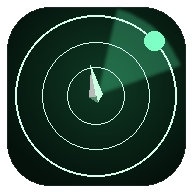
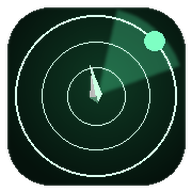
Refactor by Fable5
Ohne neue Funktionalität

diff --git a/index.html b/index.html
@@ -289,9 +289,6 @@
   /* ---------- Nav ---------- */
   #nav{align-items:center;justify-content:flex-start;padding:calc(var(--safe-t) + 22px) 22px 0;overflow-y:auto;-webkit-overflow-scrolling:touch;}
   .nav-top{width:100%;text-align:center;padding-top:8px;}
-  .dest-name{font-size:16px;font-weight:700;margin-top:6px;line-height:1.35;
-    max-width:90%;margin-left:auto;margin-right:auto;
-    display:-webkit-box;-webkit-line-clamp:2;-webkit-box-orient:vertical;overflow:hidden;}
 
   .compass{
     position:relative;flex:0 0 auto;width:100%;min-height:min(72vw,330px);
@@ -311,20 +308,12 @@
   .readout{width:100%;text-align:center;}
   .distance{font-size:50px;font-weight:700;letter-spacing:-.01em;color:var(--accent);line-height:1;}
   .distance .unit{font-size:20px;color:var(--muted);margin-left:6px;font-weight:700;}
-  .status-inline{display:inline-flex;align-items:center;justify-content:center;gap:8px;margin-top:6px;color:var(--muted);font-size:10.5px;letter-spacing:.14em;text-transform:uppercase;}
+  .status-inline{display:inline-flex;align-items:center;justify-content:center;gap:8px;margin:2px auto 0;color:var(--muted);font-size:10.5px;letter-spacing:.14em;text-transform:uppercase;}
   .dot{width:6px;height:6px;border-radius:50%;background:var(--muted);flex:0 0 auto;}
   .dot.gps{background:var(--gps);}
   .dot.compass{background:var(--accent);}
   .dot.none{background:var(--danger);}
-
-  .alert{
-    display:inline-flex;align-items:center;gap:7px;margin-top:10px;
-    background:var(--surface);border:1px solid var(--warn);
-    border-radius:6px;padding:6px 12px;font-size:11.5px;color:var(--warn);
-    letter-spacing:.03em;max-width:280px;
-  }
-  .alert.hide{display:none;}
-  .alert .dot{background:var(--warn);}
+  #statusDot{width:8px;height:8px;flex:0 0 8px;}
   .crossing-panel{display:none;margin:12px auto 0;max-width:320px;background:var(--surface);border:1px solid var(--hairline);border-radius:10px;padding:10px 10px 8px;}
   .crossing-panel.show{display:block;}
   .crossing-head{display:flex;align-items:center;justify-content:space-between;gap:8px;margin-bottom:8px;}
@@ -335,11 +324,6 @@
   .crossing-name{font-size:13px;font-weight:700;line-height:1.35;}
   .crossing-sub{font-size:11.5px;color:var(--muted);margin-top:3px;line-height:1.35;font-family:-apple-system,BlinkMacSystemFont,system-ui,sans-serif;}
   .crossing-dist{font-size:11px;color:var(--accent);letter-spacing:.06em;white-space:nowrap;padding-top:2px;}
-  .route-chip{display:none;align-items:center;justify-content:center;gap:7px;margin-top:10px;font-size:11px;color:var(--muted);letter-spacing:.06em;text-transform:uppercase;}
-  .route-chip.show{display:inline-flex;}
-  .crossing-badge{display:inline-flex;align-items:center;gap:6px;margin-top:8px;padding:6px 10px;border-radius:999px;border:1px solid var(--hairline);font-size:11px;letter-spacing:.06em;text-transform:uppercase;color:var(--muted);}
-  .crossing-badge .dot{width:6px;height:6px;border-radius:50%;background:var(--accent);}
-  .crossing-badge.foot-only .dot{background:var(--warn);}
   .crossing-sub strong{font-weight:700;color:var(--fg);font-family:ui-monospace,SFMono-Regular,Menlo,Monaco,Consolas,monospace;}
 
   .hint{color:var(--muted);font-size:12.5px;line-height:1.5;margin-top:14px;
@@ -361,7 +345,7 @@
 
     .barrier-info-btn{width:100%;display:flex;align-items:center;gap:10px;justify-content:center;
     min-height:48px;padding:12px 14px;border-radius:16px;border:1px solid var(--hairline);
-    background:color-mix(in srgb, var(--surface) 92%, transparent);color:var(--warning);
+    background:color-mix(in srgb, var(--surface) 92%, transparent);color:var(--warn);
     font-size:11px;letter-spacing:.12em;text-transform:uppercase;}
   .barrier-info-btn .dot{width:10px;height:10px;border-radius:50%;background:currentColor;display:inline-block;flex:none;}
   .barrier-info-btn.hide{display:none;}
@@ -386,53 +370,12 @@
   .target-pill-final{color:#4DA3FF;border-color:rgba(77,163,255,.26);}
   .target-pill-intermediate{color:var(--accent);border-color:color-mix(in srgb, var(--accent) 35%, var(--hairline));}
   .target-name{font-size:11px;letter-spacing:.04em;color:var(--muted);}
-  #routeChip{display:none !important;}
   .crossing-panel.compact #crossingList{display:none;}
   .crossing-head-actions{display:flex;align-items:center;gap:8px;}
   #crossingSummary{flex:1 1 auto;}
   #toggleCrossings{min-width:88px;}
   #finalLabel{display:none;}
-  .crossing-badge{margin-top:0;}
 
-
-  .status-inline{
-    display:inline-flex !important;
-    align-items:center !important;
-    justify-content:center !important;
-    gap:8px !important;
-    width:auto !important;
-    height:auto !important;
-    min-height:0 !important;
-    padding:0 !important;
-    margin:2px auto 0 !important;
-    border:0 !important;
-    border-radius:0 !important;
-    background:none !important;
-    box-shadow:none !important;
-    color:var(--muted) !important;
-    font-size:10.5px !important;
-    letter-spacing:.14em !important;
-    text-transform:uppercase !important;
-  }
-  .status-inline::before,.status-inline::after{display:none !important;content:none !important;}
-  #statusDot{
-    width:8px !important;
-    height:8px !important;
-    min-width:8px !important;
-    min-height:8px !important;
-    border-radius:50% !important;
-    display:inline-block !important;
-    flex:0 0 8px !important;
-    transform:none !important;
-    box-shadow:none !important;
-  }
-  #statusText{
-    display:inline !important;
-    font-size:10.5px !important;
-    line-height:1.1 !important;
-    letter-spacing:.14em !important;
-    text-transform:uppercase !important;
-  }
   .intermediate-actions{display:flex;gap:10px;justify-content:center;flex-wrap:wrap;}
   .intermediate-actions.hide{display:none;}
   .intermediate-actions .btn-ghost{min-height:42px;padding:0 14px;}
@@ -645,7 +588,7 @@
 <script>
 "use strict";
 
-const APP_VERSION = '2026.07.07.16';
+const APP_VERSION = '2026.07.08.1';
 
 /* ---------------- Geo-Mathe ---------------- */
 const R = 6371000; // m
@@ -788,6 +731,8 @@ out geom tags;`;
       candidates.push({ lat, lon, type, barrierType, name, detour, score: detour + dLine * 0.8 + a * 0.05 + (accessMode === 'foot_only' ? 120 : 0), accessMode });
     };
 
+    const pendingBridges = [];
+
     for(const element of (data.elements || [])){
       const tags = element.tags || {};
 
@@ -803,11 +748,9 @@ out geom tags;`;
         if(tags.bridge === 'yes' || tags.man_made === 'bridge' || tags.tunnel === 'yes'){
           bridgeWays++;
           const mid = pts[Math.floor(pts.length / 2)];
-          let barrierType = 'water';
-          if(hitMotorway) barrierType = 'motorway';
-          else if(hitRail) barrierType = 'rail';
-          else if(hitWater) barrierType = 'water';
-          pushCandidate(mid.lat, mid.lon, tags.tunnel === 'yes' ? 'tunnel' : 'bridge', barrierType, tags.name || '', tags);
+          // barrierType wird erst NACH dem kompletten Scan zugewiesen —
+          // die hit*-Flags sind hier evtl. noch unvollständig (Overpass-Reihenfolge).
+          pendingBridges.push({ mid, type: tags.tunnel === 'yes' ? 'tunnel' : 'bridge', name: tags.name || '', tags });
         }
       }
 
@@ -825,6 +768,12 @@ out geom tags;`;
         levelCrossings++;
         pushCandidate(element.lat, element.lon, 'level_crossing', 'rail', tags.name || '', tags);
       }
+    }
+
+    // Jetzt sind alle hit*-Flags final — Brücken-/Tunnel-Kandidaten labeln und einreihen.
+    const bridgeBarrierType = hitMotorway ? 'motorway' : (hitRail ? 'rail' : 'water');
+    for(const b of pendingBridges){
+      pushCandidate(b.mid.lat, b.mid.lon, b.type, bridgeBarrierType, b.name, b.tags);
     }
 
     const unique = new Map();
@@ -862,6 +811,15 @@ function updateIntermediateActions(dist){
   const show = !!(state.intermediateDest && Number.isFinite(dist) && dist <= 50);
   box.classList.toggle('hide', !show);
 }
+/* Hinweistext mit optionaler Haltezeit — der Frame-Loop überschreibt
+   navHint sonst in jedem Frame und Meldungen wären nie sichtbar. */
+function setHint(text, holdMs = 0){
+  el('navHint').textContent = text;
+  state.hintHoldUntil = holdMs > 0 ? Date.now() + holdMs : 0;
+}
+function hintLocked(){
+  return Date.now() < state.hintHoldUntil;
+}
 function activateFinalDestination(message=''){
   if(!state.finalDest) return;
   state.intermediateDest = null;
@@ -871,7 +829,7 @@ function activateFinalDestination(message=''){
   state.dest = { ...state.finalDest };
   renderNavChrome();
   updateIntermediateActions(null);
-  if(message) el('navHint').textContent = message;
+  if(message) setHint(message, 4000);
 }
 
 function setRouteChip(){
@@ -912,14 +870,14 @@ function renderCrossingSuggestions(){
     const btn = document.createElement('button');
     btn.className = 'crossing-option' + (state.selectedCrossingKey === crossingKey(item) ? ' active' : '');
     const accessText = item.accessMode === 'foot_only' ? '<strong>nur schiebend / zu Fuß</strong>' : 'mit Rad befahrbar';
-    btn.innerHTML = `<span><div class="crossing-name">${item.name || crossingTypeLabel(item.type)}</div><div class="crossing-sub">${crossingTypeLabel(item.type)} · ${item.barrierType === 'rail' ? 'bei Bahnlinie' : (item.barrierType === 'motorway' ? 'bei Autobahn' : 'bei Gewässer')} · ${accessText}</div></span><span class="crossing-dist">+${formatMetersShort(item.detour)}</span>`;
+    btn.innerHTML = `<span><div class="crossing-name">${escHtml(item.name || crossingTypeLabel(item.type))}</div><div class="crossing-sub">${crossingTypeLabel(item.type)} · ${item.barrierType === 'rail' ? 'bei Bahnlinie' : (item.barrierType === 'motorway' ? 'bei Autobahn' : 'bei Gewässer')} · ${accessText}</div></span><span class="crossing-dist">+${formatMetersShort(item.detour)}</span>`;
     btn.addEventListener('click', () => {
       state.intermediateDest = { lat:item.lat, lon:item.lon, name:item.name || crossingTypeLabel(item.type) };
       state.selectedCrossingKey = crossingKey(item);
       state.dest = { ...state.intermediateDest };
       state.crossingLegendMode = item.accessMode || 'rideable';
       state.crossingExpanded = false;
-      el('navHint').textContent = '';
+      setHint('');
       setRouteChip();
       renderCrossingSuggestions();
       updateIntermediateActions(Number.POSITIVE_INFINITY);
@@ -947,7 +905,7 @@ function syncBarrierUI(){
   const hasInfo = !!(state.barrierSummary || state.barrierDebugText);
   if(btn){
     btn.classList.toggle('hide', !hasInfo);
-    btn.style.color = state.barrierIsError ? 'var(--warning)' : 'var(--accent)';
+    btn.style.color = state.barrierIsError ? 'var(--warn)' : 'var(--accent)';
   }
   if(btnText) btnText.textContent = state.barrierSummary || 'Barrieren-Check';
   if(summary) summary.textContent = state.barrierSummary || 'Noch keine Infos vorhanden.';
@@ -1036,6 +994,7 @@ const state = {
   barrierSummary: '',
   barrierDebugText: '',
   barrierIsError: false,
+  hintHoldUntil: 0,
 };
 
 const GPS_SWITCH_ON  = 1.2;
@@ -1235,29 +1194,8 @@ function startNav(dest){
   state.compassHeading = null;
   state.compassAccuracy = null;
   state.compassTs = 0;
-  state.smoothHeading = null;
-  state.displayAngle = 0;
-  state.gpsCourse = null;
-  state.gpsCourseSpeed = null;
-  state.gpsCourseDistance = 0;
-  state.gpsCourseTs = 0;
-  state.positionHistory = [];
-  state.compassHistory = [];
-  state.compassHeading = null;
-  state.compassAccuracy = null;
-  state.compassTs = 0;
-  state.smoothHeading = null;
-  state.displayAngle = 0;
-  state.gpsCourse = null;
-  state.gpsCourseSpeed = null;
-  state.gpsCourseDistance = 0;
-  state.gpsCourseTs = 0;
-  state.positionHistory = [];
-  state.compassHistory = [];
-  state.compassHeading = null;
-  state.compassAccuracy = null;
-  state.compassTs = 0;
   state.barrierSummary='';
+  state.hintHoldUntil = 0;
   updateIntermediateActions(null);
   hideBarrierError();
   setBarrierDebug('');
@@ -1632,6 +1570,9 @@ function frame(){
     updateIntermediateActions(state.intermediateDest ? dist : null);
     if(state.intermediateDest && dist <= 35){
       activateFinalDestination('Zwischenziel erreicht · weiter zum Endziel.');
+      // Nur diesen Frame überspringen (dist/brg beziehen sich noch aufs alte Ziel) —
+      // der Loop muss zwingend weiterlaufen.
+      requestAnimationFrame(frame);
       return;
     }
     if(!state.barrierChecked){
@@ -1707,19 +1648,9 @@ function frame(){
           el('finalMarkerHalo').setAttribute('cy', p2.y.toFixed(1));
           el('finalMarkerDot').setAttribute('cx', p2.x.toFixed(1));
           el('finalMarkerDot').setAttribute('cy', p2.y.toFixed(1));
-          const finalText = el('finalLabelText');
-          const finalRect = el('finalLabelRect');
-          finalText.textContent = formatMetersShort(finalDist);
-          const finalW = Math.max(34, Math.ceil(finalText.getComputedTextLength()) + 12);
-          const anchorLeft = p2.x > 132;
-          const lx = anchorLeft ? (p2.x - finalW - 8) : (p2.x + 8);
-          const ly = Math.max(4, p2.y - 9);
-          finalRect.setAttribute('x', lx.toFixed(1));
-          finalRect.setAttribute('y', ly.toFixed(1));
-          finalRect.setAttribute('width', finalW);
-          finalText.setAttribute('x', (lx + finalW/2).toFixed(1));
-          finalText.setAttribute('y', (ly + 9).toFixed(1));
-          el('finalLabel').setAttribute('transform', `rotate(${-state.displayAngle} ${(lx + finalW/2).toFixed(1)} ${(ly + 9).toFixed(1)})`);
+          // Das Distanz-Label des Endziels ist per CSS (#finalLabel) bewusst ausgeblendet.
+          // Die frühere Pro-Frame-Vermessung (getComputedTextLength auf verstecktem
+          // SVG-Text) entfällt daher — sie war unnötig und auf iOS unzuverlässig.
         }else{
           finalMarker.style.display = 'none';
         }
@@ -1730,22 +1661,28 @@ function frame(){
 
       if(pick.s==='gps'){
         setStatus('gps','GPS-Kurs');
-        el('navHint').textContent = pick.meta && pick.meta.detail === 'derived-course'
-          ? 'Richtung aus deiner Bewegung berechnet.'
-          : '';
+        if(!hintLocked()){
+          el('navHint').textContent = pick.meta && pick.meta.detail === 'derived-course'
+            ? 'Richtung aus deiner Bewegung berechnet.'
+            : '';
+        }
       }else{
         setStatus('compass','Kompass');
-        el('navHint').textContent = `Kompass-Fallback aktiv${pick.meta && Number.isFinite(pick.meta.accuracy) ? ` · ±${Math.round(pick.meta.accuracy)}°` : ''}.`;
+        if(!hintLocked()){
+          el('navHint').textContent = `Kompass-Fallback aktiv${pick.meta && Number.isFinite(pick.meta.accuracy) ? ` · ±${Math.round(pick.meta.accuracy)}°` : ''}.`;
+        }
       }
     }else{
       const finalMarker = el('finalMarker');
       if(finalMarker) finalMarker.style.display = 'none';
       setStatus('none','Richtung unklar');
       state.smoothHeading = null;
-      if(state.compassGranted){
-        el('navHint').textContent = 'Keine sichere Richtungsquelle. Kurz fahren oder iPhone/Kompass neu ausrichten.';
-      }else{
-        el('navHint').textContent = 'Keine sichere Richtungsquelle. Kurz fahren oder den iPhone-Kompass freigeben.';
+      if(!hintLocked()){
+        if(state.compassGranted){
+          el('navHint').textContent = 'Keine sichere Richtungsquelle. Kurz fahren oder iPhone/Kompass neu ausrichten.';
+        }else{
+          el('navHint').textContent = 'Keine sichere Richtungsquelle. Kurz fahren oder den iPhone-Kompass freigeben.';
+        }
       }
       if(window.DeviceOrientationEvent && typeof window.DeviceOrientationEvent.requestPermission==='function'
          && !state.compassGranted){
@@ -1754,7 +1691,7 @@ function frame(){
     }
   }else if(dest){
     setStatus('none','Suche Signal …');
-    el('navHint').textContent = 'Warte auf ersten Standortfix …';
+    if(!hintLocked()) el('navHint').textContent = 'Warte auf ersten Standortfix …';
   }
 
   requestAnimationFrame(frame);

diff --git a/sw.js b/sw.js
@@ -1,4 +1,4 @@
-const CACHE='da-shell-2026.07.07.16';
+const CACHE='da-shell-2026.07.08.1';
 const SHELL=['./','./index.html','./manifest.json','./version.json','./icon-192.png','./icon-512.png','./apple-touch-icon.png','./favicon.png'];
 self.addEventListener('install',e=>{e.waitUntil(caches.open(CACHE).then(c=>c.addAll(SHELL)).catch(()=>{}));self.skipWaiting();});
 self.addEventListener('activate',e=>{e.waitUntil(caches.keys().then(keys=>Promise.all(keys.filter(k=>k!==CACHE).map(k=>caches.delete(k)))));self.clients.claim();});